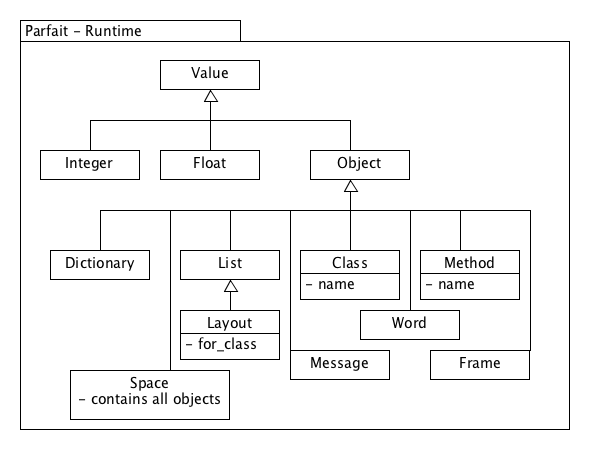
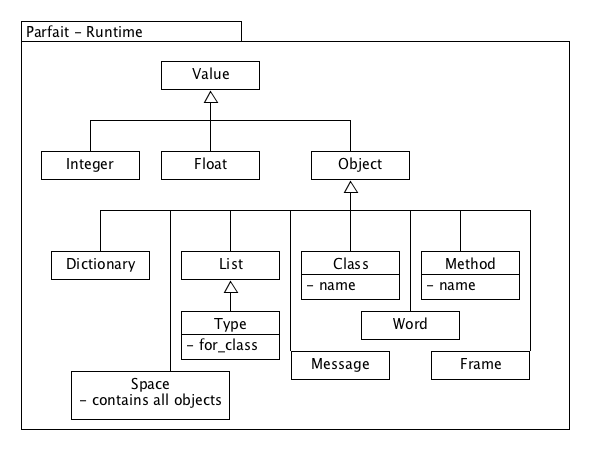
layout rename

diff --git a/appendix/sof.md b/appendix/sof.md
@@ -3,7 +3,7 @@
 ## Object file format
 
 For completeness we add a brief description of the object file format used by the object machine.
-Sof is not essential to the Machine, but was used in a previous version. 
+Sof is not essential to the Machine, but was used in a previous version.
 
 The format is not unlike yaml, but much more compact in that it allows several items on one line.
 Also it is specific to the object machine, and as such uses class names un-scoped.
@@ -78,9 +78,9 @@ Virtual::Block(:position => 440, :length => -1, :name => :return)
 Especially in the object machines runtime, some classes derive from Array. The notation for
 any object of class that derives from Array or Hash is to append the above Notation for Hash or Array.
 
-For example the Class Layout, that derives from Array. As an Array it stores Symbols, so the instance that represents the Layout of the Module is
+For example the Class Type, that derives from Array. As an Array it stores Symbols, so the instance that represents the Type of the Module is
 ```
-Parfait::Layout(:object_class => ->Module, :layout => ->Layout_Layout) - :name
+Parfait::Type(:object_class => ->Module, :type => ->Type_Type) - :name
    - :instance_methods
    - :super_class
    - :meta_class
@@ -123,17 +123,17 @@ Sof is meant to write object files. Below is an example of a minimal object spac
 ```
 &space Parfait::Space()
  :classes - :Value => &Value Parfait::Class(:name => :Value, :instance_methods => [])
-   :object_layout Parfait::Layout(:object_class => ->Value, :layout => ->Layout_Layout)
-   :layout &Class_Layout Parfait::Layout(:object_class => ->Class, :layout => ->Layout_Layout) - :object_layout
+   :object_type Parfait::Type(:object_class => ->Value, :type => ->Type_Type)
+   :type &Class_Type Parfait::Type(:object_class => ->Class, :type => ->Type_Type) - :object_type
    - :name
    - :instance_methods
    - :super_class
    - :meta_class
- - :Integer => &Integer Parfait::Class(:name => :Integer, :instance_methods => [], :super_class => ->Value, :layout => ->Class_Layout)
-   :object_layout Parfait::Layout(:object_class => ->Integer, :layout => ->Layout_Layout)
- - :Kernel => &Kernel Parfait::Class(:name => :Kernel, :super_class => ->Value, :layout => ->Class_Layout)
-   :instance_methods - &putstring Parfait::Method(:layout => ->Method_Layout, :for_class => ->Kernel, :name => :putstring, :arg_names => [], :locals => [], :tmps => [])
-     :code Parfait::BinaryCode(:layout => ->BinaryCode_Layout, :name => :putstring)
+ - :Integer => &Integer Parfait::Class(:name => :Integer, :instance_methods => [], :super_class => ->Value, :type => ->Class_Type)
+   :object_type Parfait::Type(:object_class => ->Integer, :type => ->Type_Type)
+ - :Kernel => &Kernel Parfait::Class(:name => :Kernel, :super_class => ->Value, :type => ->Class_Type)
+   :instance_methods - &putstring Parfait::Method(:type => ->Method_Type, :for_class => ->Kernel, :name => :putstring, :arg_names => [], :locals => [], :tmps => [])
+     :code Parfait::BinaryCode(:type => ->BinaryCode_Type, :name => :putstring)
      :info Virtual::CompiledMethodInfo(:return_type => Virtual::Unknown, :constants => [])
       :blocks - Virtual::Block(:name => :enter)
         :codes - Register::SaveReturn(:register => :r0, :index => 1)
@@ -153,8 +153,8 @@ Sof is meant to write object files. Below is an example of a minimal object spac
         - Register::GetSlot(:value => :r1, :reference => :r0, :index => 3)
         - Register::GetSlot(:value => :r2, :reference => :r0, :index => 6)
         - Register::FunctionReturn(:register => :r0, :index => 1)
-   - Parfait::Method(:layout => ->Method_Layout, :for_class => ->Kernel, :name => :__init__, :arg_names => [], :locals => [], :tmps => [])
-     :code Parfait::BinaryCode(:layout => ->BinaryCode_Layout, :name => :__init__)
+   - Parfait::Method(:type => ->Method_Type, :for_class => ->Kernel, :name => :__init__, :arg_names => [], :locals => [], :tmps => [])
+     :code Parfait::BinaryCode(:type => ->BinaryCode_Type, :name => :__init__)
      :info Virtual::CompiledMethodInfo(:return_type => Virtual::Integer, :constants => [])
       :blocks - Virtual::Block(:name => :enter)
         :codes - Register::SaveReturn(:register => :r0, :index => 1)
@@ -184,10 +184,10 @@ Sof is meant to write object files. Below is an example of a minimal object spac
         - Register::GetSlot(:value => :r1, :reference => :r0, :index => 3)
         - Register::GetSlot(:value => :r2, :reference => :r0, :index => 6)
         - Register::FunctionReturn(:register => :r0, :index => 1)
-   :object_layout Parfait::Layout(:object_class => ->Kernel, :layout => ->Layout_Layout)
- - :Object => &Object Parfait::Class(:name => :Object, :super_class => ->Kernel, :layout => ->Class_Layout)
-   :instance_methods - &main Parfait::Method(:layout => ->Method_Layout, :for_class => ->Object, :name => :main, :arg_names => [], :locals => [], :tmps => [])
-     :code Parfait::BinaryCode(:layout => ->BinaryCode_Layout, :name => :main)
+   :object_type Parfait::Type(:object_class => ->Kernel, :type => ->Type_Type)
+ - :Object => &Object Parfait::Class(:name => :Object, :super_class => ->Kernel, :type => ->Class_Type)
+   :instance_methods - &main Parfait::Method(:type => ->Method_Type, :for_class => ->Object, :name => :main, :arg_names => [], :locals => [], :tmps => [])
+     :code Parfait::BinaryCode(:type => ->BinaryCode_Type, :name => :main)
      :info Virtual::CompiledMethodInfo(:return_type => Virtual::Unknown, :constants => [:Hello])
       :blocks - Virtual::Block(:name => :enter)
         :codes - Register::SaveReturn(:register => :r0, :index => 1)
@@ -238,61 +238,61 @@ Sof is meant to write object files. Below is an example of a minimal object spac
         - Register::GetSlot(:value => :r1, :reference => :r0, :index => 3)
         - Register::GetSlot(:value => :r2, :reference => :r0, :index => 6)
         - Register::FunctionReturn(:register => :r0, :index => 1)
-   :object_layout Parfait::Layout(:object_class => ->Object, :layout => ->Layout_Layout)
- - :Word => &Word Parfait::Class(:name => :Word, :instance_methods => [], :super_class => ->Object, :layout => ->Class_Layout)
-   :object_layout Parfait::Layout(:object_class => ->Word, :layout => ->Layout_Layout)
- - :List => &List Parfait::Class(:name => :List, :instance_methods => [], :super_class => ->Object, :layout => ->Class_Layout)
-   :object_layout Parfait::Layout(:object_class => ->List, :layout => ->Layout_Layout)
- - :Message => &Message Parfait::Class(:name => :Message, :instance_methods => [], :super_class => ->Object, :object_layout => ->Message_Layout, :layout => ->Class_Layout)
- - :MetaClass => &MetaClass Parfait::Class(:name => :MetaClass, :instance_methods => [], :super_class => ->Object, :layout => ->Class_Layout)
-   :object_layout Parfait::Layout(:object_class => ->MetaClass, :layout => ->Layout_Layout)
-   :object_layout Parfait::Layout(:object_class => ->MetaClass, :layout => ->Layout_Layout)
- - :BinaryCode => &BinaryCode Parfait::Class(:name => :BinaryCode, :instance_methods => [], :super_class => ->Word, :layout => ->Class_Layout)
-   :object_layout &BinaryCode_Layout Parfait::Layout(:object_class => ->BinaryCode, :layout => ->Layout_Layout)
- - :Space => &Space Parfait::Class(:name => :Space, :instance_methods => [], :super_class => ->Object, :object_layout => ->Space_Layout, :layout => ->Class_Layout)
- - :Frame => &Frame Parfait::Class(:name => :Frame, :instance_methods => [], :super_class => ->Object, :object_layout => ->Frame_Layout, :layout => ->Class_Layout)
- - :Layout => &Layout Parfait::Class(:name => :Layout, :instance_methods => [], :super_class => ->List, :object_layout => ->Layout_Layout, :layout => ->Class_Layout)
- - :Class => &Class Parfait::Class(:name => :Class, :instance_methods => [], :super_class => ->Module, :object_layout => ->Class_Layout, :layout => ->Class_Layout)
- - :Dictionary => &Dictionary Parfait::Class(:name => :Dictionary, :instance_methods => [], :super_class => ->Object, :layout => ->Class_Layout)
-   :object_layout Parfait::Layout(:object_class => ->Dictionary, :layout => ->Layout_Layout) - :keys
+   :object_type Parfait::Type(:object_class => ->Object, :type => ->Type_Type)
+ - :Word => &Word Parfait::Class(:name => :Word, :instance_methods => [], :super_class => ->Object, :type => ->Class_Type)
+   :object_type Parfait::Type(:object_class => ->Word, :type => ->Type_Type)
+ - :List => &List Parfait::Class(:name => :List, :instance_methods => [], :super_class => ->Object, :type => ->Class_Type)
+   :object_type Parfait::Type(:object_class => ->List, :type => ->Type_Type)
+ - :Message => &Message Parfait::Class(:name => :Message, :instance_methods => [], :super_class => ->Object, :object_type => ->Message_Type, :type => ->Class_Type)
+ - :MetaClass => &MetaClass Parfait::Class(:name => :MetaClass, :instance_methods => [], :super_class => ->Object, :type => ->Class_Type)
+   :object_type Parfait::Type(:object_class => ->MetaClass, :type => ->Type_Type)
+   :object_type Parfait::Type(:object_class => ->MetaClass, :type => ->Type_Type)
+ - :BinaryCode => &BinaryCode Parfait::Class(:name => :BinaryCode, :instance_methods => [], :super_class => ->Word, :type => ->Class_Type)
+   :object_type &BinaryCode_Type Parfait::Type(:object_class => ->BinaryCode, :type => ->Type_Type)
+ - :Space => &Space Parfait::Class(:name => :Space, :instance_methods => [], :super_class => ->Object, :object_type => ->Space_Type, :type => ->Class_Type)
+ - :Frame => &Frame Parfait::Class(:name => :Frame, :instance_methods => [], :super_class => ->Object, :object_type => ->Frame_Type, :type => ->Class_Type)
+ - :Type => &Type Parfait::Class(:name => :Type, :instance_methods => [], :super_class => ->List, :object_type => ->Type_Type, :type => ->Class_Type)
+ - :Class => &Class Parfait::Class(:name => :Class, :instance_methods => [], :super_class => ->Module, :object_type => ->Class_Type, :type => ->Class_Type)
+ - :Dictionary => &Dictionary Parfait::Class(:name => :Dictionary, :instance_methods => [], :super_class => ->Object, :type => ->Class_Type)
+   :object_type Parfait::Type(:object_class => ->Dictionary, :type => ->Type_Type) - :keys
    - :values
- - :Method => &Method Parfait::Class(:name => :Method, :instance_methods => [], :super_class => ->Object, :layout => ->Class_Layout)
-   :object_layout &Method_Layout Parfait::Layout(:object_class => ->Method, :layout => ->Layout_Layout) - :name
+ - :Method => &Method Parfait::Class(:name => :Method, :instance_methods => [], :super_class => ->Object, :type => ->Class_Type)
+   :object_type &Method_Type Parfait::Type(:object_class => ->Method, :type => ->Type_Type) - :name
    - :code
    - :arg_names
    - :locals
    - :tmps
- - :Module => &Module Parfait::Class(:name => :Module, :instance_methods => [], :super_class => ->Object, :layout => ->Class_Layout)
-   :object_layout Parfait::Layout(:object_class => ->Module, :layout => ->Layout_Layout) - :name
+ - :Module => &Module Parfait::Class(:name => :Module, :instance_methods => [], :super_class => ->Object, :type => ->Class_Type)
+   :object_type Parfait::Type(:object_class => ->Module, :type => ->Type_Type) - :name
    - :instance_methods
    - :super_class
    - :meta_class
  :frames - ->1
- - Parfait::Frame(:layout => ->Frame_Layout)
- - Parfait::Frame(:layout => ->Frame_Layout)
- - Parfait::Frame(:layout => ->Frame_Layout)
- - Parfait::Frame(:layout => ->Frame_Layout)
+ - Parfait::Frame(:type => ->Frame_Type)
+ - Parfait::Frame(:type => ->Frame_Type)
+ - Parfait::Frame(:type => ->Frame_Type)
+ - Parfait::Frame(:type => ->Frame_Type)
  :messages - ->2
- - Parfait::Message(:layout => ->Message_Layout)
- - Parfait::Message(:layout => ->Message_Layout)
- - Parfait::Message(:layout => ->Message_Layout)
- - Parfait::Message(:layout => ->Message_Layout)
+ - Parfait::Message(:type => ->Message_Type)
+ - Parfait::Message(:type => ->Message_Type)
+ - Parfait::Message(:type => ->Message_Type)
+ - Parfait::Message(:type => ->Message_Type)
  :next_message &2 Parfait::Message()
-  :layout &Message_Layout Parfait::Layout(:object_class => ->Message, :layout => ->Layout_Layout)
+  :type &Message_Type Parfait::Type(:object_class => ->Message, :type => ->Type_Type)
  :next_frame &1 Parfait::Frame()
-  :layout &Frame_Layout Parfait::Layout(:object_class => ->Frame, :layout => ->Layout_Layout) - :locals
+  :type &Frame_Type Parfait::Type(:object_class => ->Frame, :type => ->Type_Type) - :locals
   - :tmps
- - Parfait::Message(:layout => ->Message_Layout)
- - Parfait::Message(:layout => ->Message_Layout)
- - Parfait::Message(:layout => ->Message_Layout)
- - Parfait::Message(:layout => ->Message_Layout)
+ - Parfait::Message(:type => ->Message_Type)
+ - Parfait::Message(:type => ->Message_Type)
+ - Parfait::Message(:type => ->Message_Type)
+ - Parfait::Message(:type => ->Message_Type)
  :next_message &2 Parfait::Message()
-  :layout &Message_Layout Parfait::Layout(:object_class => ->Message, :layout => ->Layout_Layout)
+  :type &Message_Type Parfait::Type(:object_class => ->Message, :type => ->Type_Type)
  :next_frame &1 Parfait::Frame()
-  :layout &Frame_Layout Parfait::Layout(:object_class => ->Frame, :layout => ->Layout_Layout) - :locals
+  :type &Frame_Type Parfait::Type(:object_class => ->Frame, :type => ->Type_Type) - :locals
   - :tmps
- :layout &Space_Layout Parfait::Layout(:object_class => ->Space)
-  :layout &Layout_Layout Parfait::Layout(:object_class => ->Layout, :layout => ->Layout_Layout) - :object_class - :classes
+ :type &Space_Type Parfait::Type(:object_class => ->Space)
+  :type &Type_Type Parfait::Type(:object_class => ->Type, :type => ->Type_Type) - :object_class - :classes
  - :frames
  - :messages
  - :next_message

diff --git a/object/parfait/classes.md b/object/parfait/classes.md
@@ -6,9 +6,9 @@ is not supported, only association.
 
 Another common feature for all objects is that they have a class, and without using class
 inheritance this will default to Object. Unlike other designs, we do not store the class directly
-in the object, but use a class called Layout as a mediator. Still, the normal object oriented
+in the object, but use a class called Type as a mediator. Still, the normal object oriented
 assumption is enforced, namely that the class of an object may not be changed during it's life-cycle.
-More about the Layout below.
+More about the Type below.
 
 ### Values
 
@@ -33,13 +33,13 @@ This works for the minimal two basic types of integer and reference but has seve
 - incurs a high run-time cost for masking, unmasking and type checking.
 
 All four of those points are unacceptable, and so we choose to encode the value's type in an
-external (though implict) fashion. This is explained in the layout section below.
+external (though implicit) fashion. This is explained in the type section below.
 
 To repeat, objects are made up of values. Values are represented by immutable binary patterns that
 are nevertheless typed. In our implementation value types are stored external to the value,
 but in a silicon implementation it would be beneficial to store the type with the value.
 
-### Layout and Class
+### Type and Class
 
 Traditionally objects have a minimum of one association, the class. In some systems the class serves
 the double role of specifying what variables/methods an object has and how those are arranged.
@@ -48,24 +48,24 @@ and methods to objects at run-time. And while it is possible to add this to clas
 it can easily be somewhat imprecise (having some objects of a class that have a certain variable,
 but others not), and easily inefficient (when changing all objects of a class to hold nil values, eg).
 
-Instead of associating the object with it's Class directly, we associate it with it's Layout and
-the Layout with the Class it represents. The diagram below illustrates this,
+Instead of associating the object with it's Class directly, we associate it with it's Type and
+the Type with the Class it represents. The diagram below illustrates this,
 as an object (not class) diagram.
 
-![Object diagram](../../diagrams/layout.png)
+![Object diagram](../../diagrams/types.png)
 
-Each object has a reference to the layout for this Object. But the layout defines the types
+Each object has a reference to the type for this Object. But the type defines the value types
 , and if applicable, names that the object holds. An object *may* hold
 any amount of instance variables (logically).
-The Layout, being an Object, also has a layout (with type info), but detail is omitted here for clarity.
-The objects Layout holds the names of all the objects instance variables. The Layout also holds a
+The Type, being an Object, also has a type (with type info), but detail is omitted here for clarity.
+The objects Type holds the names of all the objects instance variables. The Type also holds a
 reference to the class for the Object.
 
 As we want a flexible design, the Class object is mutable at any time. The programmer may add,
 or remove variables and methods, even change the inheritance of the class. But it is important
-to note that the Layout is **immutable**. This means that when the programmer adds an instance
-variable, a **new** Layout is created. This is so that the Layout of other existing objects stays
-valid, and off course if or when there are no such other objects the layout will be collected.
+to note that the Type is **immutable**. This means that when the programmer adds an instance
+variable, a **new** Type is created. This is so that the Type of other existing objects stays
+valid.
 
 ### Implicit type
 

diff --git a/soml/parfait.md b/soml/parfait.md
@@ -13,14 +13,14 @@ In soml object is not the root of the class hierarchy, but Value is. Integer, Fl
 derived from Value. So an integer is *not* an object, but still has a class and methods, just no
 instance variables.
 
-### Layout and Class
+### Type and Class
 
-Each object has a layout that describes the instance variables and types of the object. It also
-reference the class of the object. Layout objects are constant, may not be changed over their
-lifetime. When a field is added to a class, a new layout is created.
+Each object has a type that describes the instance variables and basic types of the object. It also
+reference the class of the object. Type objects are constant, may not be changed over their
+lifetime. When a field is added to a class, a new type is created.
 
 A Class describes a set of objects that respond to the same methods (methods are store in the class).
-A Layout describes a set of objects that have the same instance variables.
+A Type describes a set of objects that have the same instance variables.
 
 ### Method, Message and Frame
 

diff --git a/object/dynamic_types.md b/object/dynamic_types.md
@@ -30,7 +30,7 @@ When compiling ruby all types are known by the compiler at program start.
 The values that are not assigned a known type, and thus have no start value, may either be deduced
 through later assignments, or assigned a the object type.
 
-All type information is recorded in the Layouts of the objects created at compile time. It helps
+All type information is recorded in the Types of the objects created at compile time. It helps
 to remember that there is no information outside objects, also at runtime.
 
 So when the program starts, it does so in a known state.
@@ -74,7 +74,7 @@ object to integer, a single association in the graph has to be followed to find 
 descriptor.
 
 The change that the compiler generates is the same for the static and dynamic case. The type
-descriptor of the object is changed. Not the Layout, or class, just the type descriptor.
+descriptor of the object is changed. Not the Type, or class, just the type descriptor.
 
 ### Method signatures
 

diff --git a/implementation/elf.md b/implementation/elf.md
@@ -8,8 +8,8 @@ Strings are other simple objects that similarly transform easily to their binary
 assuming a utf8 encoding.
 
 Other objects contain a mix of integer and reference values that are binary encoded as well.
-The memory layout described above demands type encoding for all values and a layout reference
-for evey object.
+The memory layout described above demands type encoding for all values and a type reference
+for every object.
 
 For references and calls we need positions for all objects which are determined before assembly
 starts. Objects are laid out in the order they are stored in the ObjectSpace, but all Method
@@ -22,4 +22,3 @@ produce suitably, and sections of which  the text section contains the code.
 
 To help debugging, method names and object classes are exported. Currently the final result still
 has to be run with ld -N.
-

diff --git a/soml/syntax.md b/soml/syntax.md
@@ -42,7 +42,7 @@ field definitions, and are basically instance variables, but not hidden (see bel
 The example below shows how to define local variables at the same time. Notice chaining, both for
 field access and call, is not allowed.
 
-      self.layout
+      self.type
       l.object_class
 
 A **Call expression** is a method call that resolves to the methods return value. If no receiver is
@@ -102,7 +102,7 @@ field, must be in class (not method) scope and may not be assigned to.
 
     class Class < Object
       field List instance_methods
-      field Layout object_layout
+      field Type instance_type
       field Word name
       ...
     end
